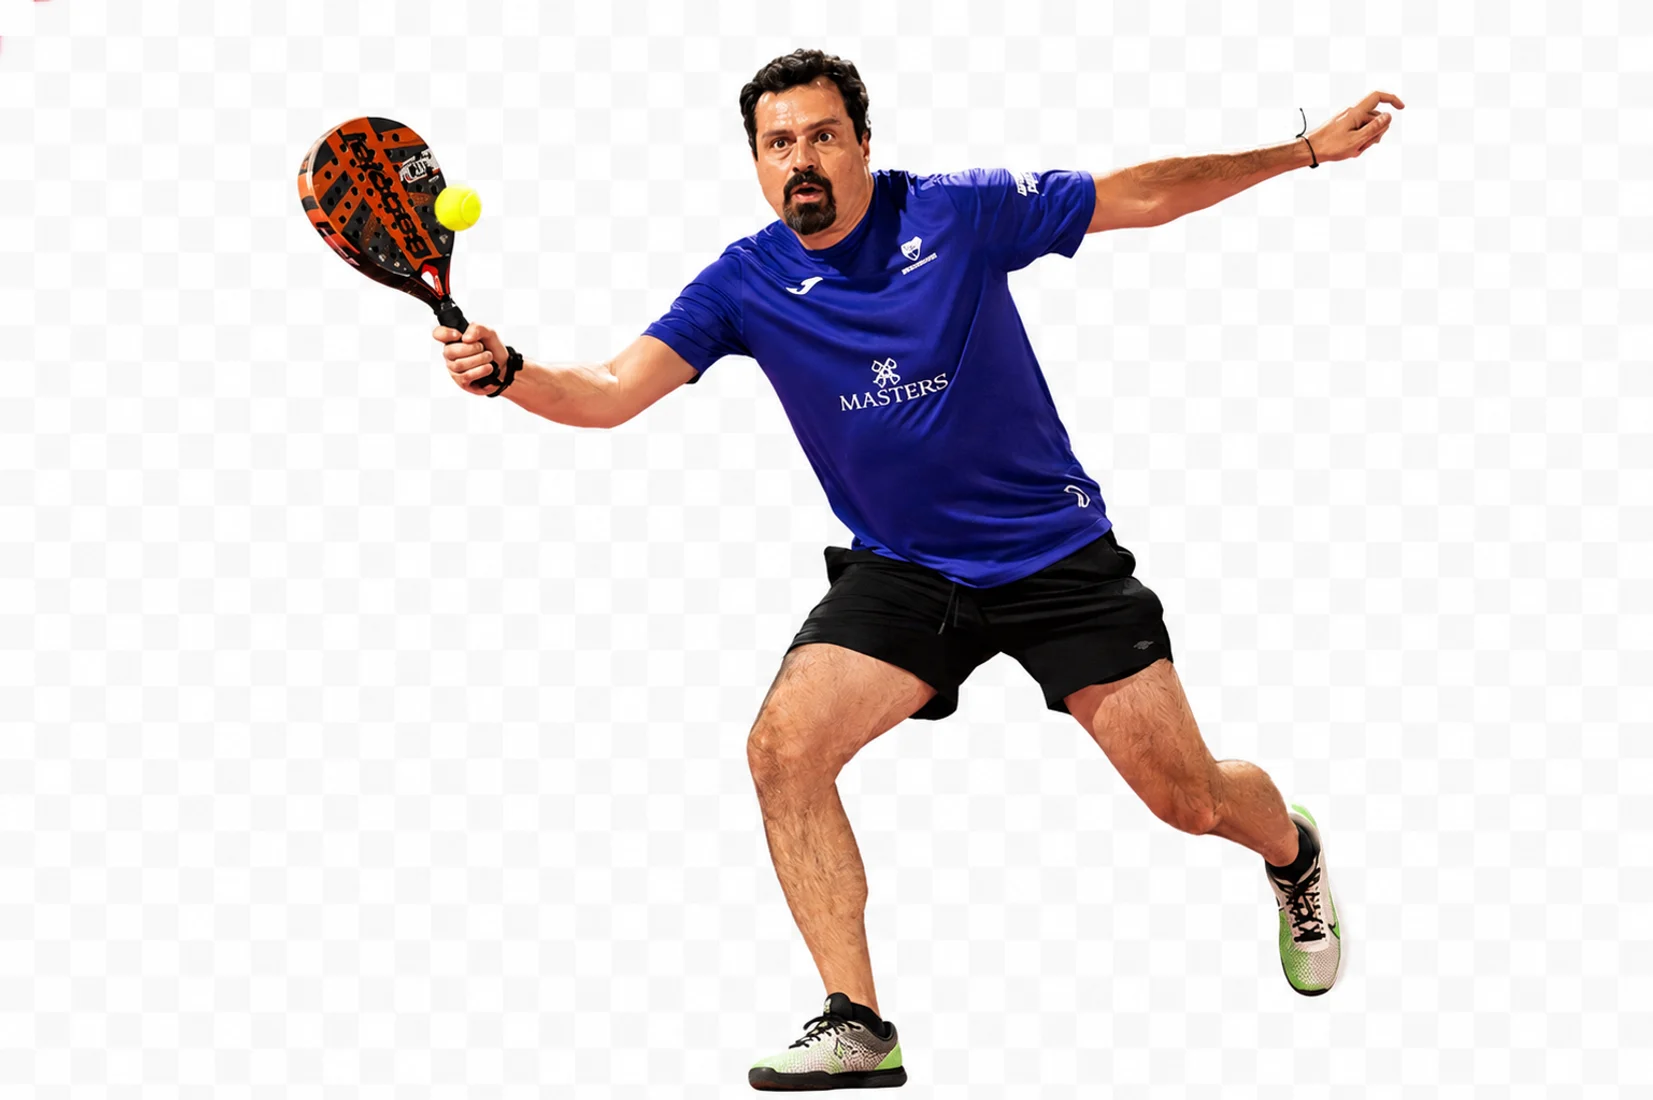
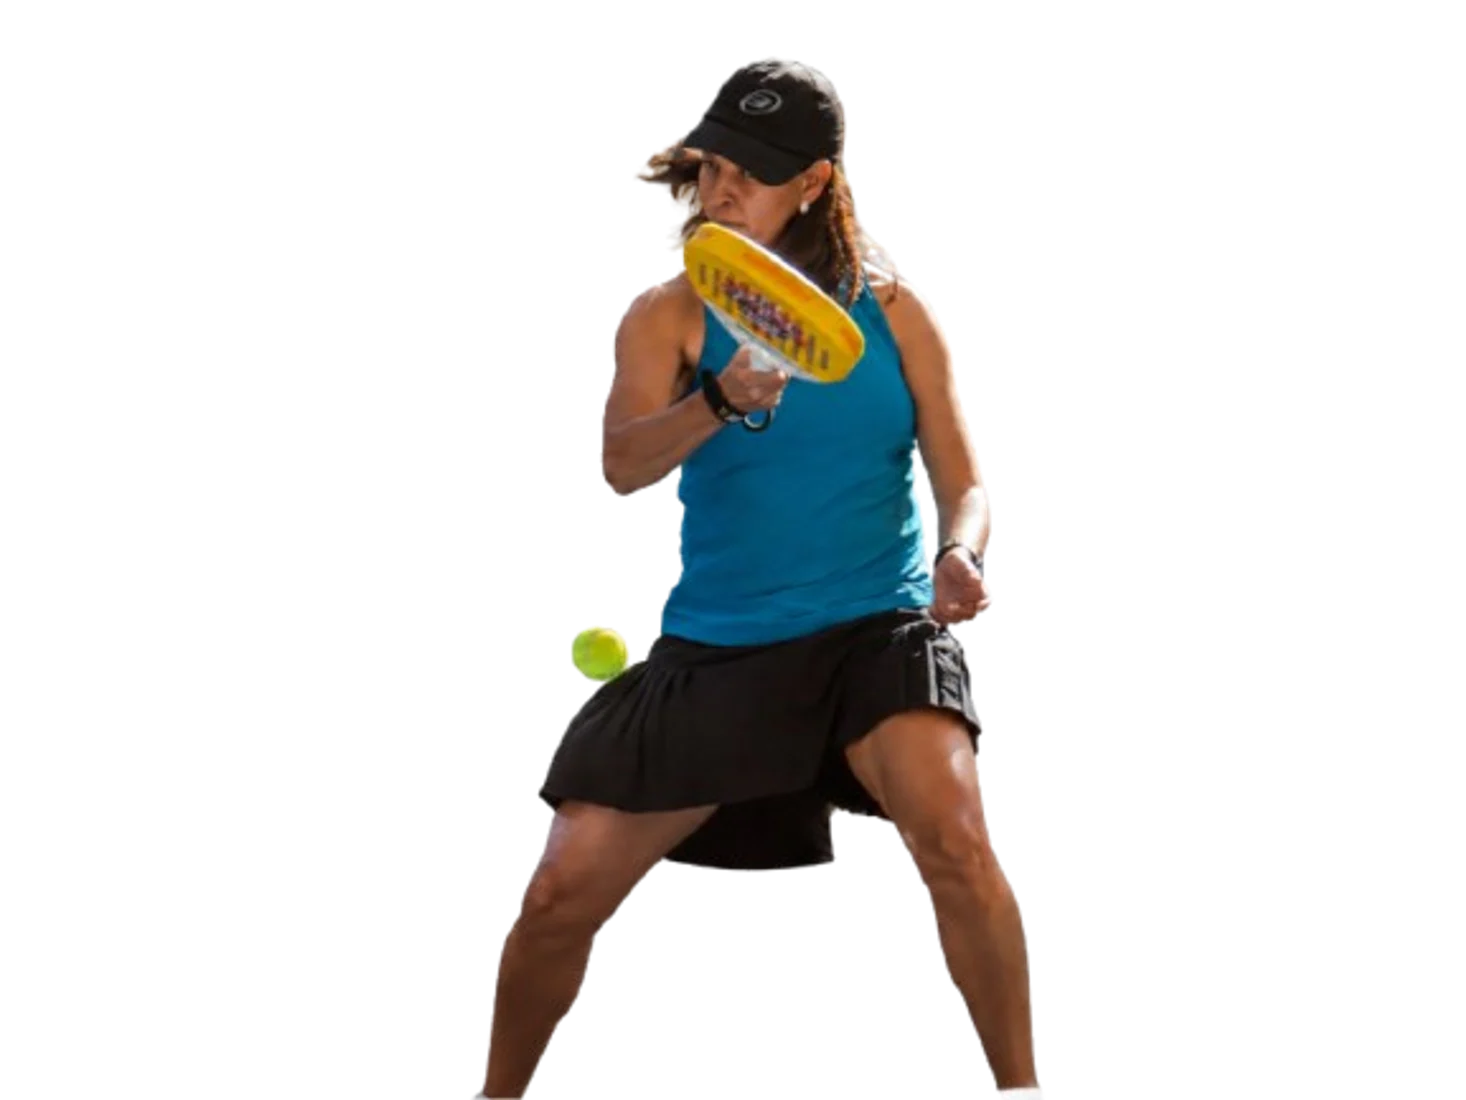
feat(ui): transparent player in home hero + collapsible team roster
Hero now layers a real transparent padel-player cutout over the silk texture (hero-player.webp re-exported from a background-removed PNG with a verified alpha channel).

Team page roster is now a collapsible accordion: each category is a button (name + badge + count + chevron) that expands its players; collapsed by default to keep the page compact.

Verified: assets serve image/webp, tsc + 71 tests, no console errors. Deployed to production.

Changed region(s): [[0.1535, 0.0309, 0.8595, 1.0]]

diff --git a/src/routes/public/TeamRosterPage.tsx b/src/routes/public/TeamRosterPage.tsx
@@ -1,18 +1,20 @@
-import type { CSSProperties } from 'react'
+import { useState, type CSSProperties } from 'react'
 import { useParams, Link } from 'react-router-dom'
 import { useActiveSeason } from '@/features/season/useActiveSeason'
 import { useTeams } from '@/features/teams/useTeams'
 import { usePublicPlayers } from '@/features/teams/usePublicPlayers'
 import { useStandings } from '@/features/standings/useStandings'
 import { useCategories } from '@/features/categories/useCategories'
-import { groupRoster } from '@/features/teams/groupRoster'
+import { groupRoster, type RosterGroup } from '@/features/teams/groupRoster'
 import { categoryColor } from '@/features/categories/categoryColor'
 import { teamColor } from '@/lib/color'
 import { Avatar } from '@/components/ui/Avatar'
 import { Badge } from '@/components/ui/Badge'
+import { Icon } from '@/components/ui/Icon'
 import { EmptyState } from '@/components/ui/EmptyState'
 import { ErrorState } from '@/components/ui/ErrorState'
 import { Loader } from '@/components/ui/Loader'
+import type { CategoryType } from '@/lib/types'
 
 const signed = (n: number) => (n > 0 ? `+${n}` : String(n))
 
@@ -89,31 +91,60 @@ export function TeamRosterPage() {
       {groups.length === 0 ? (
         <EmptyState icon="teams" title="Sin jugadores" description="Este equipo aún no tiene roster cargado." />
       ) : (
-        <div className="space-y-5">
+        <section className="space-y-3">
+          <h2 className="text-sm font-bold uppercase tracking-wide text-slate-700">Plantilla</h2>
           {groups.map((g) => (
-            <section key={g.code}>
-              <div className="mb-2 flex items-center gap-2">
-                <h2 className="text-sm font-bold uppercase tracking-wide text-slate-700">{g.name}</h2>
-                <Badge color={categoryColor(typeOf.get(g.code))}>{g.code}</Badge>
-              </div>
-              <ul className="divide-y divide-slate-100 overflow-hidden rounded-xl border border-slate-200 bg-slate-100 shadow-sm">
-                {g.players.map((p) => (
-                  <li key={p.id}>
-                    <Link
-                      to={`/jugadores/${p.id}`}
-                      className="flex items-center gap-3 px-4 py-2.5 transition hover:bg-slate-50"
-                    >
-                      <Avatar name={p.full_name} photoUrl={p.photo_url} color={team.color} size={36} />
-                      <span className="flex-1 font-medium text-slate-800">{p.full_name}</span>
-                      {p.is_captain && <Badge color="amber">Capitán</Badge>}
-                      <span className="text-slate-300" aria-hidden>›</span>
-                    </Link>
-                  </li>
-                ))}
-              </ul>
-            </section>
+            <CategoryAccordion key={g.code} group={g} type={typeOf.get(g.code)} color={team.color} />
           ))}
-        </div>
+        </section>
+      )}
+    </div>
+  )
+}
+
+// Categoría plegable: el encabezado es un botón que despliega/oculta sus jugadores.
+function CategoryAccordion({
+  group,
+  type,
+  color,
+}: {
+  group: RosterGroup
+  type: CategoryType | undefined
+  color: string | null
+}) {
+  const [open, setOpen] = useState(false)
+  return (
+    <div className="overflow-hidden rounded-xl border border-slate-200/80 bg-gradient-to-b from-slate-100 to-slate-50 shadow-sm">
+      <button
+        onClick={() => setOpen((o) => !o)}
+        aria-expanded={open}
+        className="flex w-full items-center gap-2 px-4 py-3 text-left transition hover:bg-slate-100"
+      >
+        <span className="text-sm font-bold uppercase tracking-wide text-slate-700">{group.name}</span>
+        <Badge color={categoryColor(type)}>{group.code}</Badge>
+        <span className="ml-auto text-xs font-medium text-slate-500">{group.players.length} jug.</span>
+        <Icon
+          name="chevron-right"
+          size={18}
+          className={'text-slate-400 transition-transform ' + (open ? 'rotate-90' : '')}
+        />
+      </button>
+      {open && (
+        <ul className="divide-y divide-slate-100 border-t border-slate-200/80">
+          {group.players.map((p) => (
+            <li key={p.id}>
+              <Link
+                to={`/jugadores/${p.id}`}
+                className="flex items-center gap-3 px-4 py-2.5 transition hover:bg-slate-100"
+              >
+                <Avatar name={p.full_name} photoUrl={p.photo_url} color={color} size={36} />
+                <span className="flex-1 font-medium text-slate-800">{p.full_name}</span>
+                {p.is_captain && <Badge color="amber">Capitán</Badge>}
+                <Icon name="chevron-right" size={16} className="text-slate-400" />
+              </Link>
+            </li>
+          ))}
+        </ul>
       )}
     </div>
   )

diff --git a/src/routes/public/HomePage.tsx b/src/routes/public/HomePage.tsx
@@ -15,7 +15,7 @@ export function HomePage() {
 
   return (
     <div className="space-y-6">
-      <section className="rise relative min-h-[230px] overflow-hidden rounded-3xl bg-gradient-to-br from-emerald-800 via-emerald-900 to-stone-950 text-white shadow-md ring-1 ring-gold-500/30">
+      <section className="rise relative min-h-[240px] overflow-hidden rounded-3xl bg-gradient-to-br from-emerald-800 via-emerald-900 to-stone-950 text-white shadow-md ring-1 ring-gold-500/30">
         {/* Textura de seda esmeralda (public/hero-silk.webp). Si falta, queda el degradado. */}
         <div className="absolute inset-0 bg-[url(/hero-silk.webp)] bg-cover bg-center" aria-hidden />
         {/* Velo para el contraste del texto a la izquierda. */}
@@ -28,13 +28,13 @@ export function HomePage() {
           className="pointer-events-none absolute -right-10 -top-14 h-48 w-48 rounded-full bg-gold-500/20 blur-3xl"
           aria-hidden
         />
-        {/* Recorte del hero (public/hero-player-3.webp). Se cambia a mano cada cierto
-            tiempo (rotación manual): solo apunta a otro archivo hero-player*.webp. */}
+        {/* Recorte de jugadora transparente (public/hero-player.webp). Para rotar,
+            apunta a otro hero-player*.webp con fondo REALMENTE transparente. */}
         <div
-          className="pointer-events-none absolute inset-y-0 right-0 w-3/5 bg-[url(/hero-player-3.webp)] bg-contain bg-right-bottom bg-no-repeat"
+          className="pointer-events-none absolute inset-y-0 right-0 w-3/5 bg-[url(/hero-player.webp)] bg-contain bg-right-bottom bg-no-repeat"
           aria-hidden
         />
-        <div className="relative max-w-[64%] p-7">
+        <div className="relative max-w-[62%] p-7">
           <p className="text-[11px] font-semibold uppercase tracking-[0.2em] text-gold-300">Temporada</p>
           <h1 className="mt-1 font-heading text-3xl leading-tight">
             Liga de Pádel <span className="text-gold-400">por Equipos</span>
